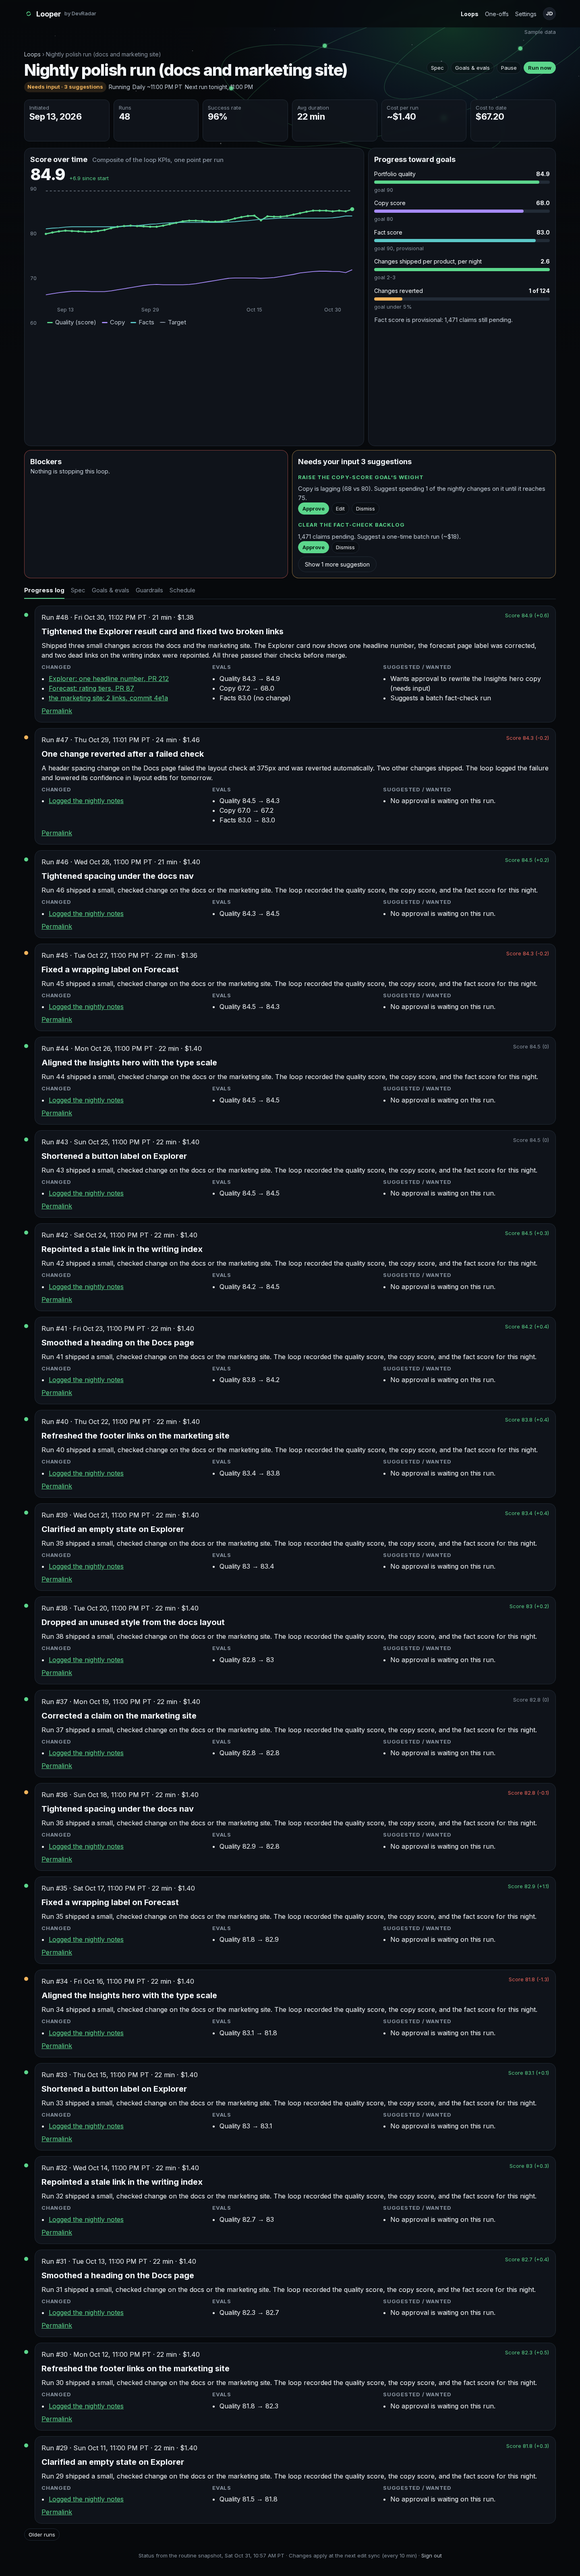
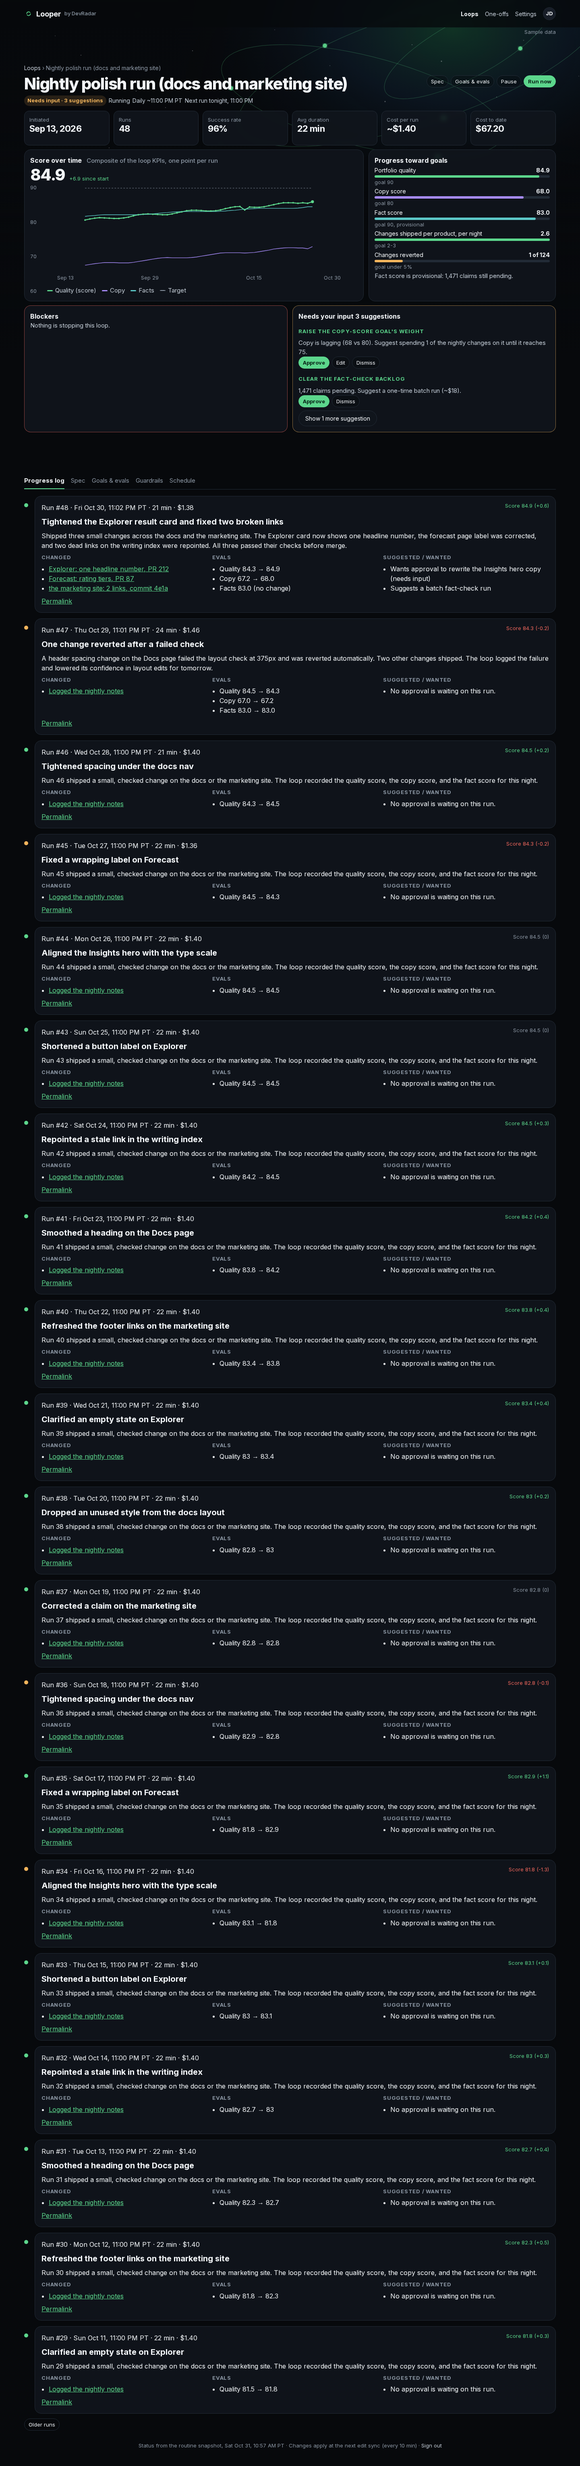
Size the loop chart row to the mockup instead of stretching it.
The chart row is 377px tall and starts at y=371, against mock-2 at about 370 by 385. Blockers sit just under it. The dashboard page stays 1862px tall.

diff --git a/app/globals.css b/app/globals.css
@@ -642,7 +642,7 @@ button.tile { width: 100%; }
   .dashboard .tiles { margin: 26px 0 18px; gap: 14px; }
   .dashboard .tile { min-height: 118px; padding: 18px 16px 14px; }
   .dashboard .tile-value { font-size: 34px; }
-  .dashboard .filters { margin: 10px 0 20px; }
+  .dashboard .filters { margin: 4px 0 14px; }
   .dashboard .section-head { margin: 16px 0 12px; }
   .dashboard .section-head h2 { font-size: 22px; }
   .dashboard .cards { gap: 16px; }
@@ -650,12 +650,20 @@ button.tile { width: 100%; }
   .dashboard [data-section="running"] .loop-card { min-height: 352px; padding: 16px; gap: 10px; }
   .dashboard .show-more { margin-top: 20px; margin-bottom: 4px; }
   .dashboard ~ .footer { margin-top: 28px; }
-  .loop-page { padding-top: 46px; }
-  .loop-page .loop-title { font-size: 40px; margin-bottom: 8px; }
-  .loop-page .tiles { margin-top: 18px; margin-bottom: 16px; }
-  .loop-page .tile { min-height: 104px; }
-  .loop-page .split-chart > section { min-height: 740px; }
-  .loop-page .split-panels > section { min-height: 300px; }
+  .loop-page { padding-top: 80px; }
+  .loop-page .loop-title { font-size: 40px; margin-bottom: 6px; }
+  .loop-page .tiles { margin-top: 12px; margin-bottom: 10px; }
+  .loop-page .tile { min-height: 86px; padding-top: 12px; padding-bottom: 12px; }
+  .loop-page .split { margin: 8px 0; gap: 12px; }
+  .loop-page .split-chart > section { min-height: 0; }
+  .loop-page .chart-main svg { max-height: 220px; }
+  .loop-page .y-axis { min-height: 0; }
+  .loop-page .goal-row { margin: 2px 0; }
+  .loop-page .bar { margin: 2px 0; height: 6px; }
+  .loop-page .spec-block h2 { font-size: 16px; }
+  .loop-page .chart-head { margin-bottom: 2px; }
+  .loop-page .split-panels { margin-top: 10px; }
+  .loop-page .tabs { margin-top: 100px; }
   .spec-page { padding-top: 36px; }
   .spec-page .spec-kicker { margin-top: 12px; margin-bottom: 18px; }
   .spec-page .spec-block { min-height: 860px; }
